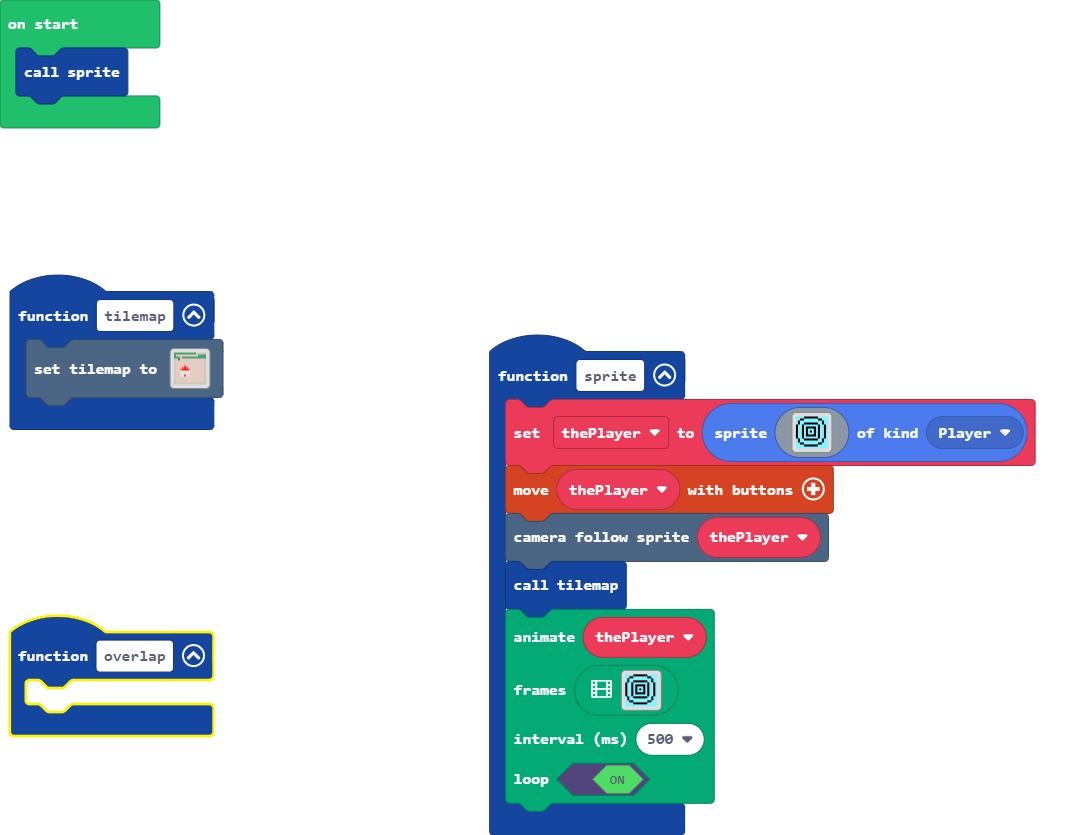
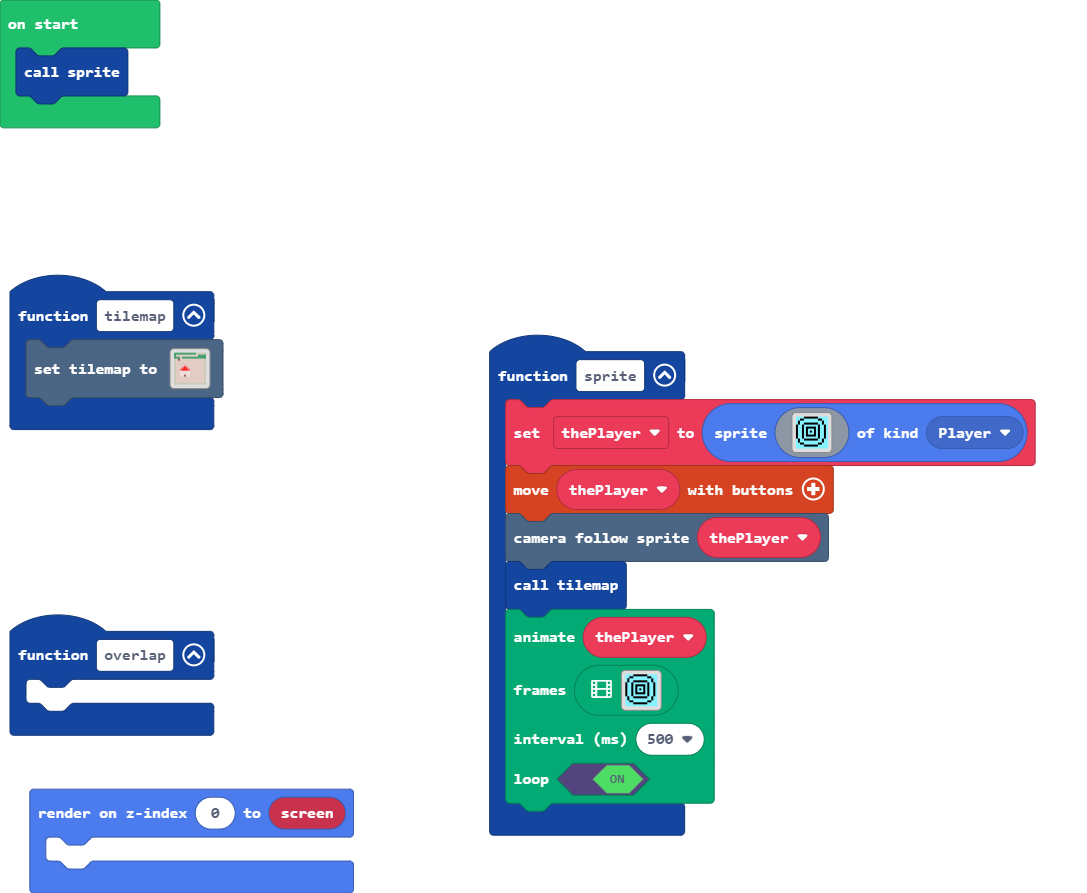
Update pxt.json, main.blocks, main.ts

diff --git a/main.ts b/main.ts
@@ -64,6 +64,9 @@ function sprite () {
     true
     )
 }
+spriteutils.createRenderable(0, function (screen2) {
+	
+})
 function overlap () {
 	
 }
